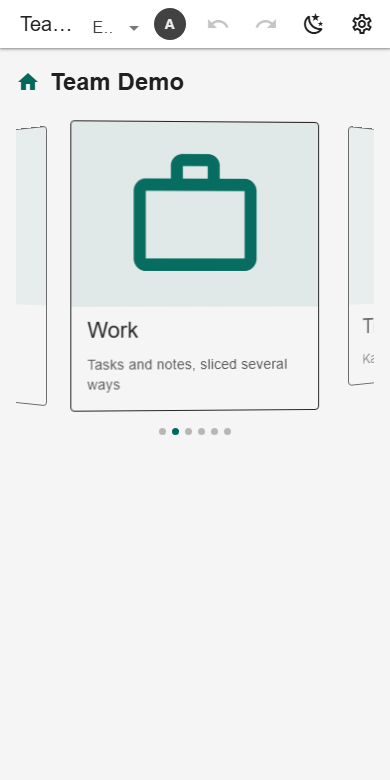
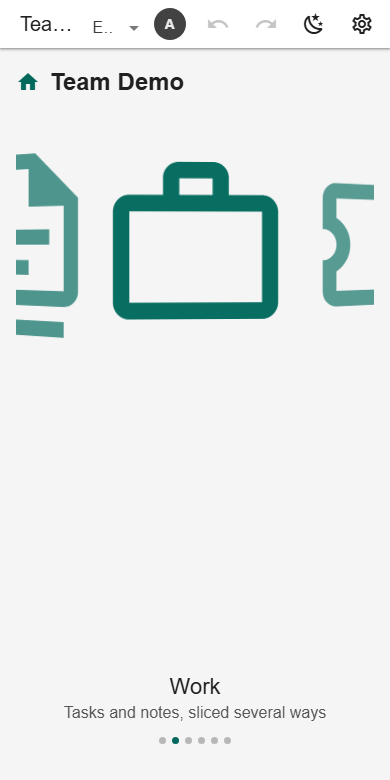
Carousel: borderless pictures, the centred entry's words at the bottom
Tiles are only their picture (image-tile `frameless`); the title,
description and dots sit at the bottom of the window (`fill`, measured
from what is above and below). Neighbours are drawn inwards, behind the
centred tile, so their pictures still show at the sides.

diff --git a/app-core.js b/app-core.js
@@ -9646,6 +9646,7 @@ function createVueApp() {
              focus: { type: String, default: 'center' }, fit: { type: String, default: 'cover' },
              icon: { type: String, default: '' }, placeholder: Boolean,
              iconArt: Boolean,   // with `placeholder`: the icon IS the picture, drawn large in the theme colour
+             frameless: Boolean, // no card border or surface: just the picture
              imgTestid: { type: String, default: undefined } },
     emits: ['zoom'],
     computed: {
@@ -9658,32 +9659,43 @@ function createVueApp() {
       }
     },
     template: ''
-      + '<v-card variant="outlined" class="h-100">'
+      + '<v-card :variant="frameless ? \'text\' : \'outlined\'" class="h-100" :class="{ \'tile-frameless\': frameless }">'
       + '<button v-if="src && zoom" type="button" class="tile-zoom" :title="zoomLabel" :aria-label="zoomLabel" @click.stop="$emit(\'zoom\')"><img :src="src" class="tile-img" :style="imgStyle" loading="lazy" alt="" :data-testid="imgTestid"></button>'
       + '<img v-else-if="src" :src="src" class="tile-img" :style="imgStyle" loading="lazy" alt="" :data-testid="imgTestid">'
-      + '<div v-else-if="placeholder" class="tile-img" :class="{ \'tile-icon-art\': iconArt }" :style="{ aspectRatio: aspect, display: \'flex\', alignItems: \'center\', justifyContent: \'center\', background: iconArt ? \'rgb(var(--v-theme-primary), 0.08)\' : \'rgb(var(--v-theme-on-surface), 0.05)\' }">'
-      + '<v-icon :size="iconArt ? \'60cqw\' : 40" :icon="icon" :color="iconArt ? \'primary\' : undefined" :style="iconArt ? undefined : \'opacity:0.35\'"></v-icon></div>'
+      + '<div v-else-if="placeholder" class="tile-img" :class="{ \'tile-icon-art\': iconArt }" :style="{ aspectRatio: aspect, display: \'flex\', alignItems: \'center\', justifyContent: \'center\', background: iconArt ? \'none\' : \'rgb(var(--v-theme-on-surface), 0.05)\' }">'
+      + '<v-icon :size="iconArt ? \'min(80cqw, 80cqh)\' : 40" :icon="icon" :color="iconArt ? \'primary\' : undefined" :style="iconArt ? undefined : \'opacity:0.35\'"></v-icon></div>'
       + '<slot :bare="!src && !placeholder"></slot>'
       + '</v-card>'
   });
   // Tiles in one row swiped sideways: the centred one faces forward, the others turn away. The snap is the
   // browser's (scroll-snap); a press on a side tile centres it rather than opening it. `index` is the
-  // centred tile, reported back as it changes.
+  // centred tile, reported back as it changes; the `caption` slot gets it, to name that tile beneath.
+  // `fill` stretches it to the bottom of the window, so the caption and dots sit there.
   app.component('tile-carousel', {
-    props: { index: { type: Number, default: 0 }, label: { type: String, default: '' } },
+    props: { index: { type: Number, default: 0 }, label: { type: String, default: '' }, fill: Boolean },
     emits: ['update:index'],
-    data: function() { return { at: -1, count: 0 }; },
+    data: function() { return { at: -1, count: 0, room: 0 }; },
+    computed: {
+      wrapStyle: function() { return this.fill && this.room ? { minHeight: 'calc(100dvh - ' + this.room + 'px)' } : null; }
+    },
     mounted: function() {
       var self = this;
       this.still = !!(window.matchMedia && window.matchMedia('(prefers-reduced-motion: reduce)').matches);
-      this.onResize = function() { self.paint(); };
+      this.onResize = function() { self.measure(); self.paint(); };
       window.addEventListener('resize', this.onResize);
-      this.$nextTick(function() { self.count = self.slides().length; self.go(Math.min(self.index, self.count - 1), true); self.paint(); });
+      this.$nextTick(function() { self.measure(); self.count = self.slides().length; self.go(Math.min(self.index, self.count - 1), true); self.paint(); });
     },
     updated: function() { this.count = this.slides().length; this.paint(); },
     unmounted: function() { window.removeEventListener('resize', this.onResize); cancelAnimationFrame(this.raf); },
     methods: {
       slides: function() { return this.$refs.track ? Array.prototype.slice.call(this.$refs.track.children) : []; },
+      // What the window holds besides the carousel: everything above it, and its ancestors' bottom padding.
+      measure: function() {
+        if (!this.fill || !this.$el.getBoundingClientRect) return;
+        var room = this.$el.getBoundingClientRect().top + window.scrollY;
+        for (var e = this.$el.parentElement; e && e !== document.body; e = e.parentElement) room += parseFloat(getComputedStyle(e).paddingBottom) || 0;
+        this.room = Math.ceil(room);
+      },
       onScroll: function() { var self = this; cancelAnimationFrame(this.raf); this.raf = requestAnimationFrame(function() { self.paint(); }); },
       // Each tile's turn from its distance to the centre, in tile widths; the nearest is the centred one.
       paint: function() {
@@ -9693,8 +9705,10 @@ function createVueApp() {
         this.slides().forEach(function(el, i) {
           var d = (el.offsetLeft + el.offsetWidth / 2 - mid) / (el.offsetWidth || 1), k = Math.max(-1, Math.min(1, d));
           if (Math.abs(d) < bestD) { bestD = Math.abs(d); best = i; }
-          el.style.transform = self.still ? '' : 'perspective(800px) rotateY(' + (k * 35).toFixed(1) + 'deg) scale(' + (1 - Math.abs(k) * 0.12).toFixed(3) + ')';
+          // Neighbours are drawn a quarter tile inwards, behind the centred one, so their pictures show at the sides.
+          el.style.transform = self.still ? '' : 'perspective(800px) translateX(' + (-k * 25).toFixed(1) + '%) rotateY(' + (k * 35).toFixed(1) + 'deg) scale(' + (1 - Math.abs(k) * 0.12).toFixed(3) + ')';
           el.style.opacity = String(1 - Math.abs(k) * 0.35);
+          el.style.zIndex = String(10 - Math.round(Math.abs(d)));
         });
         this.slides().forEach(function(el, i) { if (i === best) el.setAttribute('aria-current', 'true'); else el.removeAttribute('aria-current'); });
         if (best !== this.at) { this.at = best; this.$emit('update:index', best); }
@@ -9719,10 +9733,13 @@ function createVueApp() {
       }
     },
     template: ''
-      + '<div>'
+      + '<div class="tile-carousel-wrap" :style="wrapStyle">'
       + '<div ref="track" class="tile-carousel" tabindex="0" role="region" aria-roledescription="carousel" :aria-label="label"'
       + ' @scroll.passive="onScroll" @click.capture="onClick" @keydown="onKey"><slot></slot></div>'
+      + '<div class="tile-carousel-foot">'
+      + '<div aria-live="polite" data-testid="tile-carousel-caption"><slot v-if="at >= 0" name="caption" :index="at"></slot></div>'
       + '<div class="tile-carousel-dots" aria-hidden="true"><span v-for="i in count" :key="i" :class="{ on: i - 1 === at }"></span></div>'
+      + '</div>'
       + '</div>'
   });
 
@@ -11655,7 +11672,7 @@ function createVueApp() {
       frame: function() {
         var id = this.node.id, at = this.a.carouselAt;
         return this.look === 'carousel'
-          ? { index: at[id] || 0, label: this.node.title, 'onUpdate:index': function(i) { at[id] = i; }, 'data-testid': 'nav-level-carousel' }
+          ? { index: at[id] || 0, label: this.node.title, fill: !this.below, 'onUpdate:index': function(i) { at[id] = i; }, 'data-testid': 'nav-level-carousel' }
           : { min: '280px', 'data-testid': 'nav-level-tiles' };
       }
     },

diff --git a/ui.html b/ui.html
@@ -551,18 +551,27 @@
     </div>
     <!-- The shared tile (image-tile, as the gallery layout uses): an entry's image is the cover, cropped to
          16:9 around its focus; without one the tile has no picture and the entry's icon sits by the title.
-         The same tiles go in a grid or, on a phone, a carousel, where an entry with no image has its icon
-         drawn as the picture. -->
+         The same tiles go in a grid or, on a phone, a carousel: there a tile is only its picture (an entry
+         with no image has its icon drawn as one) and the centred entry's words sit at the bottom. -->
     <component v-if="look !== 'list'" :is="look === 'carousel' ? 'tile-carousel' : 'tile-grid'" :key="look + node.id" v-bind="frame">
       <image-tile v-for="c in node.children" :key="c.id" :src="c.image ? a.assetSrc(c.image) : ''" :focus="c.focus || 'center'"
-                  :placeholder="look === 'carousel'" :icon-art="look === 'carousel'" :icon="c.icon" :aspect="look === 'carousel' ? '4 / 3' : '16 / 9'"
+                  :placeholder="look === 'carousel'" :icon-art="look === 'carousel'" :frameless="look === 'carousel'" :icon="c.icon"
+                  :aspect="look === 'carousel' ? '1 / 1' : '16 / 9'" :aria-label="look === 'carousel' ? c.title : undefined"
                   :img-testid="'nav-tile-img-' + c.id" :data-testid="'nav-level-item-' + c.id" @click="a.selectTab(c.id)" v-slot="{ bare }">
-        <v-card-item>
-          <template v-if="bare" v-slot:prepend><v-icon :icon="c.icon" color="primary" size="32"></v-icon></template>
-          <v-card-title class="text-wrap">{{ c.title }}</v-card-title>
-        </v-card-item>
-        <v-card-text v-if="c.description" style="opacity:0.75">{{ c.description }}</v-card-text>
+        <template v-if="look !== 'carousel'">
+          <v-card-item>
+            <template v-if="bare" v-slot:prepend><v-icon :icon="c.icon" color="primary" size="32"></v-icon></template>
+            <v-card-title class="text-wrap">{{ c.title }}</v-card-title>
+          </v-card-item>
+          <v-card-text v-if="c.description" style="opacity:0.75">{{ c.description }}</v-card-text>
+        </template>
       </image-tile>
+      <template v-if="look === 'carousel'" #caption="{ index }">
+        <template v-if="node.children[index]">
+          <div class="text-title-large">{{ node.children[index].title }}</div>
+          <div v-if="node.children[index].description" style="opacity:0.75">{{ node.children[index].description }}</div>
+        </template>
+      </template>
     </component>
     <v-list v-else border rounded :lines="node.children.some(function(c) { return c.description; }) ? 'two' : 'one'">
       <v-list-item v-for="c in node.children" :key="c.id" :title="c.title" :subtitle="c.description" append-icon="mdi-chevron-right" :data-testid="'nav-level-item-' + c.id" @click="a.selectTab(c.id)">

diff --git a/style.html b/style.html
@@ -130,9 +130,12 @@ input[type="date"]:focus { outline: none; border-color: rgb(var(--v-theme-primar
 .tile-carousel:focus-visible { outline: 2px solid rgb(var(--v-theme-primary)); outline-offset: 2px; border-radius: 4px; }
 /* 100% of the padded box: 70% of the row, so the first and last can sit in the centre too. */
 .tile-carousel > * { flex: 0 0 100%; scroll-snap-align: center; }
-/* image-tile's iconArt: the icon is sized against the tile's width (cqw), however wide the tile is. */
-.tile-icon-art { container-type: inline-size; }
-.tile-carousel-dots { display: flex; justify-content: center; gap: 6px; margin-top: 8px; }
+/* image-tile's iconArt: the icon is sized against the picture's box (cq units), whatever its size. */
+.tile-icon-art { container-type: size; }
+.tile-frameless .tile-img { border-radius: 12px; }
+.tile-carousel-wrap { display: flex; flex-direction: column; }
+.tile-carousel-foot { margin-top: auto; padding: 16px 16px 4px; text-align: center; }
+.tile-carousel-dots { display: flex; justify-content: center; gap: 6px; margin-top: 12px; }
 .tile-carousel-dots span { width: 7px; height: 7px; border-radius: 50%; background: rgb(var(--v-theme-on-surface), 0.25); }
 .tile-carousel-dots span.on { background: rgb(var(--v-theme-primary)); }
 /* Settings -> Appearance: the row thumbnails and the icon picker's grid. */

diff --git a/dev/test-ui/nav-browse.spec.js b/dev/test-ui/nav-browse.spec.js
@@ -173,8 +173,14 @@ test.describe('Browse carousel', () => {
     const icon = await centred(page).locator('.tile-icon-art .v-icon').boundingBox();
     const tile = await centred(page).boundingBox();
     expect(icon.width).toBeGreaterThan(tile.width * 0.5);
+    await expect(centred(page)).not.toHaveClass(/v-card--variant-outlined/);   // no border: just the picture
+    // The centred entry's name sits at the bottom of the window, not on the tile.
+    const caption = page.locator('[data-testid="tile-carousel-caption"]');
+    await expect(caption).toContainText('combined');
+    expect((await caption.boundingBox()).y).toBeGreaterThan(800 - 150);
     await item(page, 'grp:Data').dispatchEvent('click');          // a tap, without scrolling it into view first
     await expect(centred(page)).toHaveAttribute('data-testid', 'nav-level-item-grp:Data');
+    await expect(caption).toContainText('Data');
     expect(await current(page)).toBe('__home');
     await centred(page).click();
     await expect.poll(() => current(page)).toBe('grp:Data');
